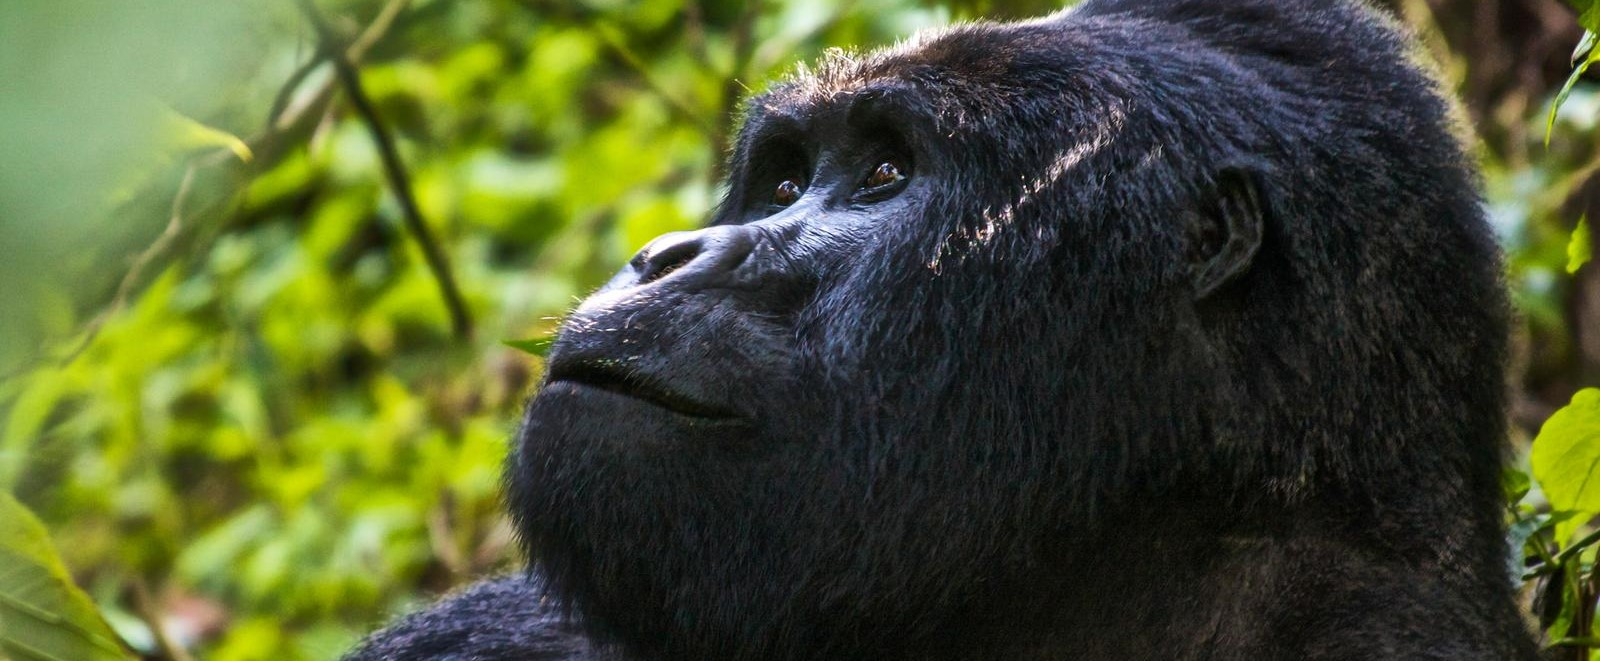
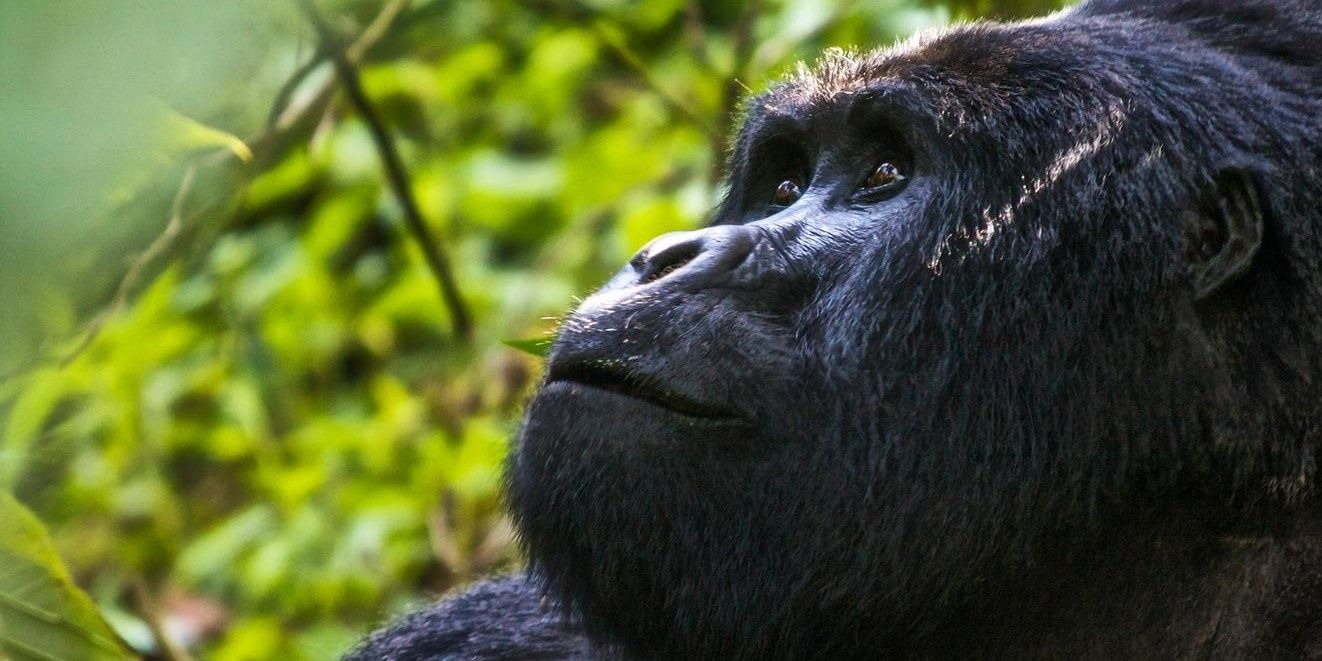
iuigyutfi7ydt

diff --git a/megamenutest.css b/megamenutest.css
@@ -55,6 +55,13 @@
 
 }
 
+
+.col-sm-12{
+  background-image: url(images/longgorilla.jpg);
+}
+
+
+
 .thumbnail img{
   width: 100%;
 }
@@ -101,6 +108,11 @@
   list-style: none;
   font-family: 'Roboto', sans-serif;
 }
+
+.col-sm-3{
+  padding: 20px;
+}
+
 
 /* General styles to improve presentation */
 html, body {

diff --git a/information.html b/information.html
@@ -130,7 +130,6 @@
                 </div><!-- /col -->
 
                 <div class="col-sm-12 col-md-7">
-                  <img src="holder.js/100px200">
                 </div><!-- /col -->
 
               </div><!-- /row -->
